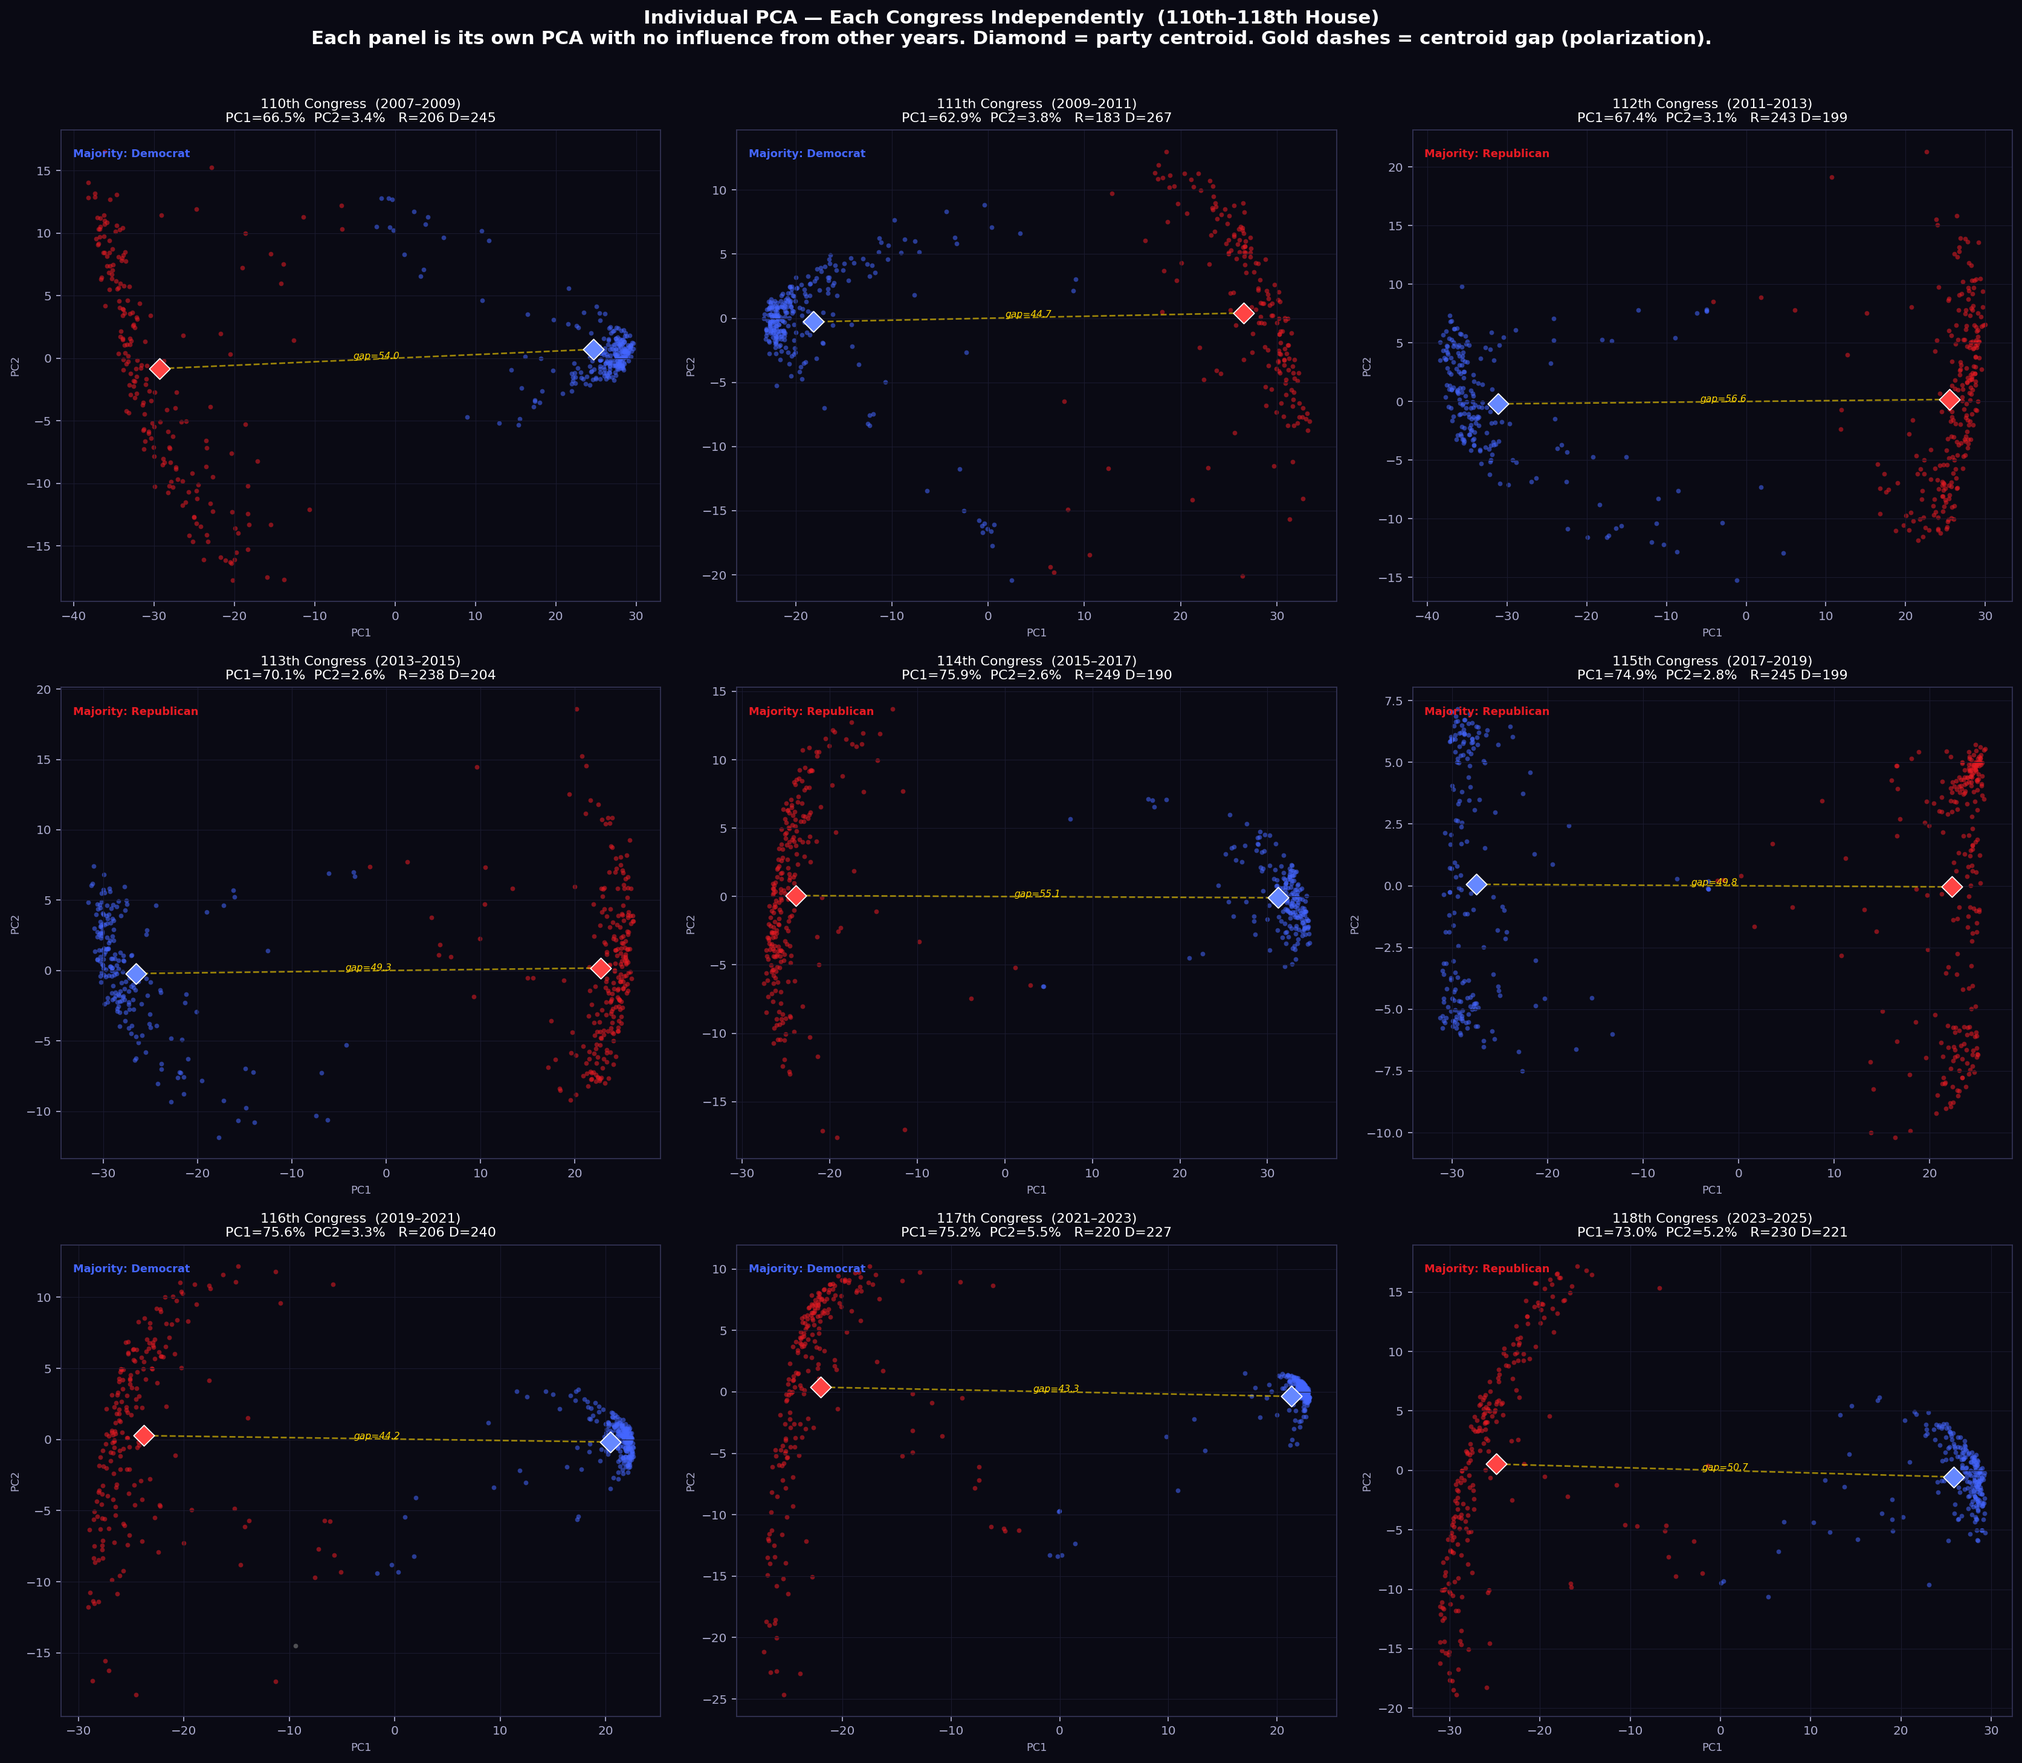
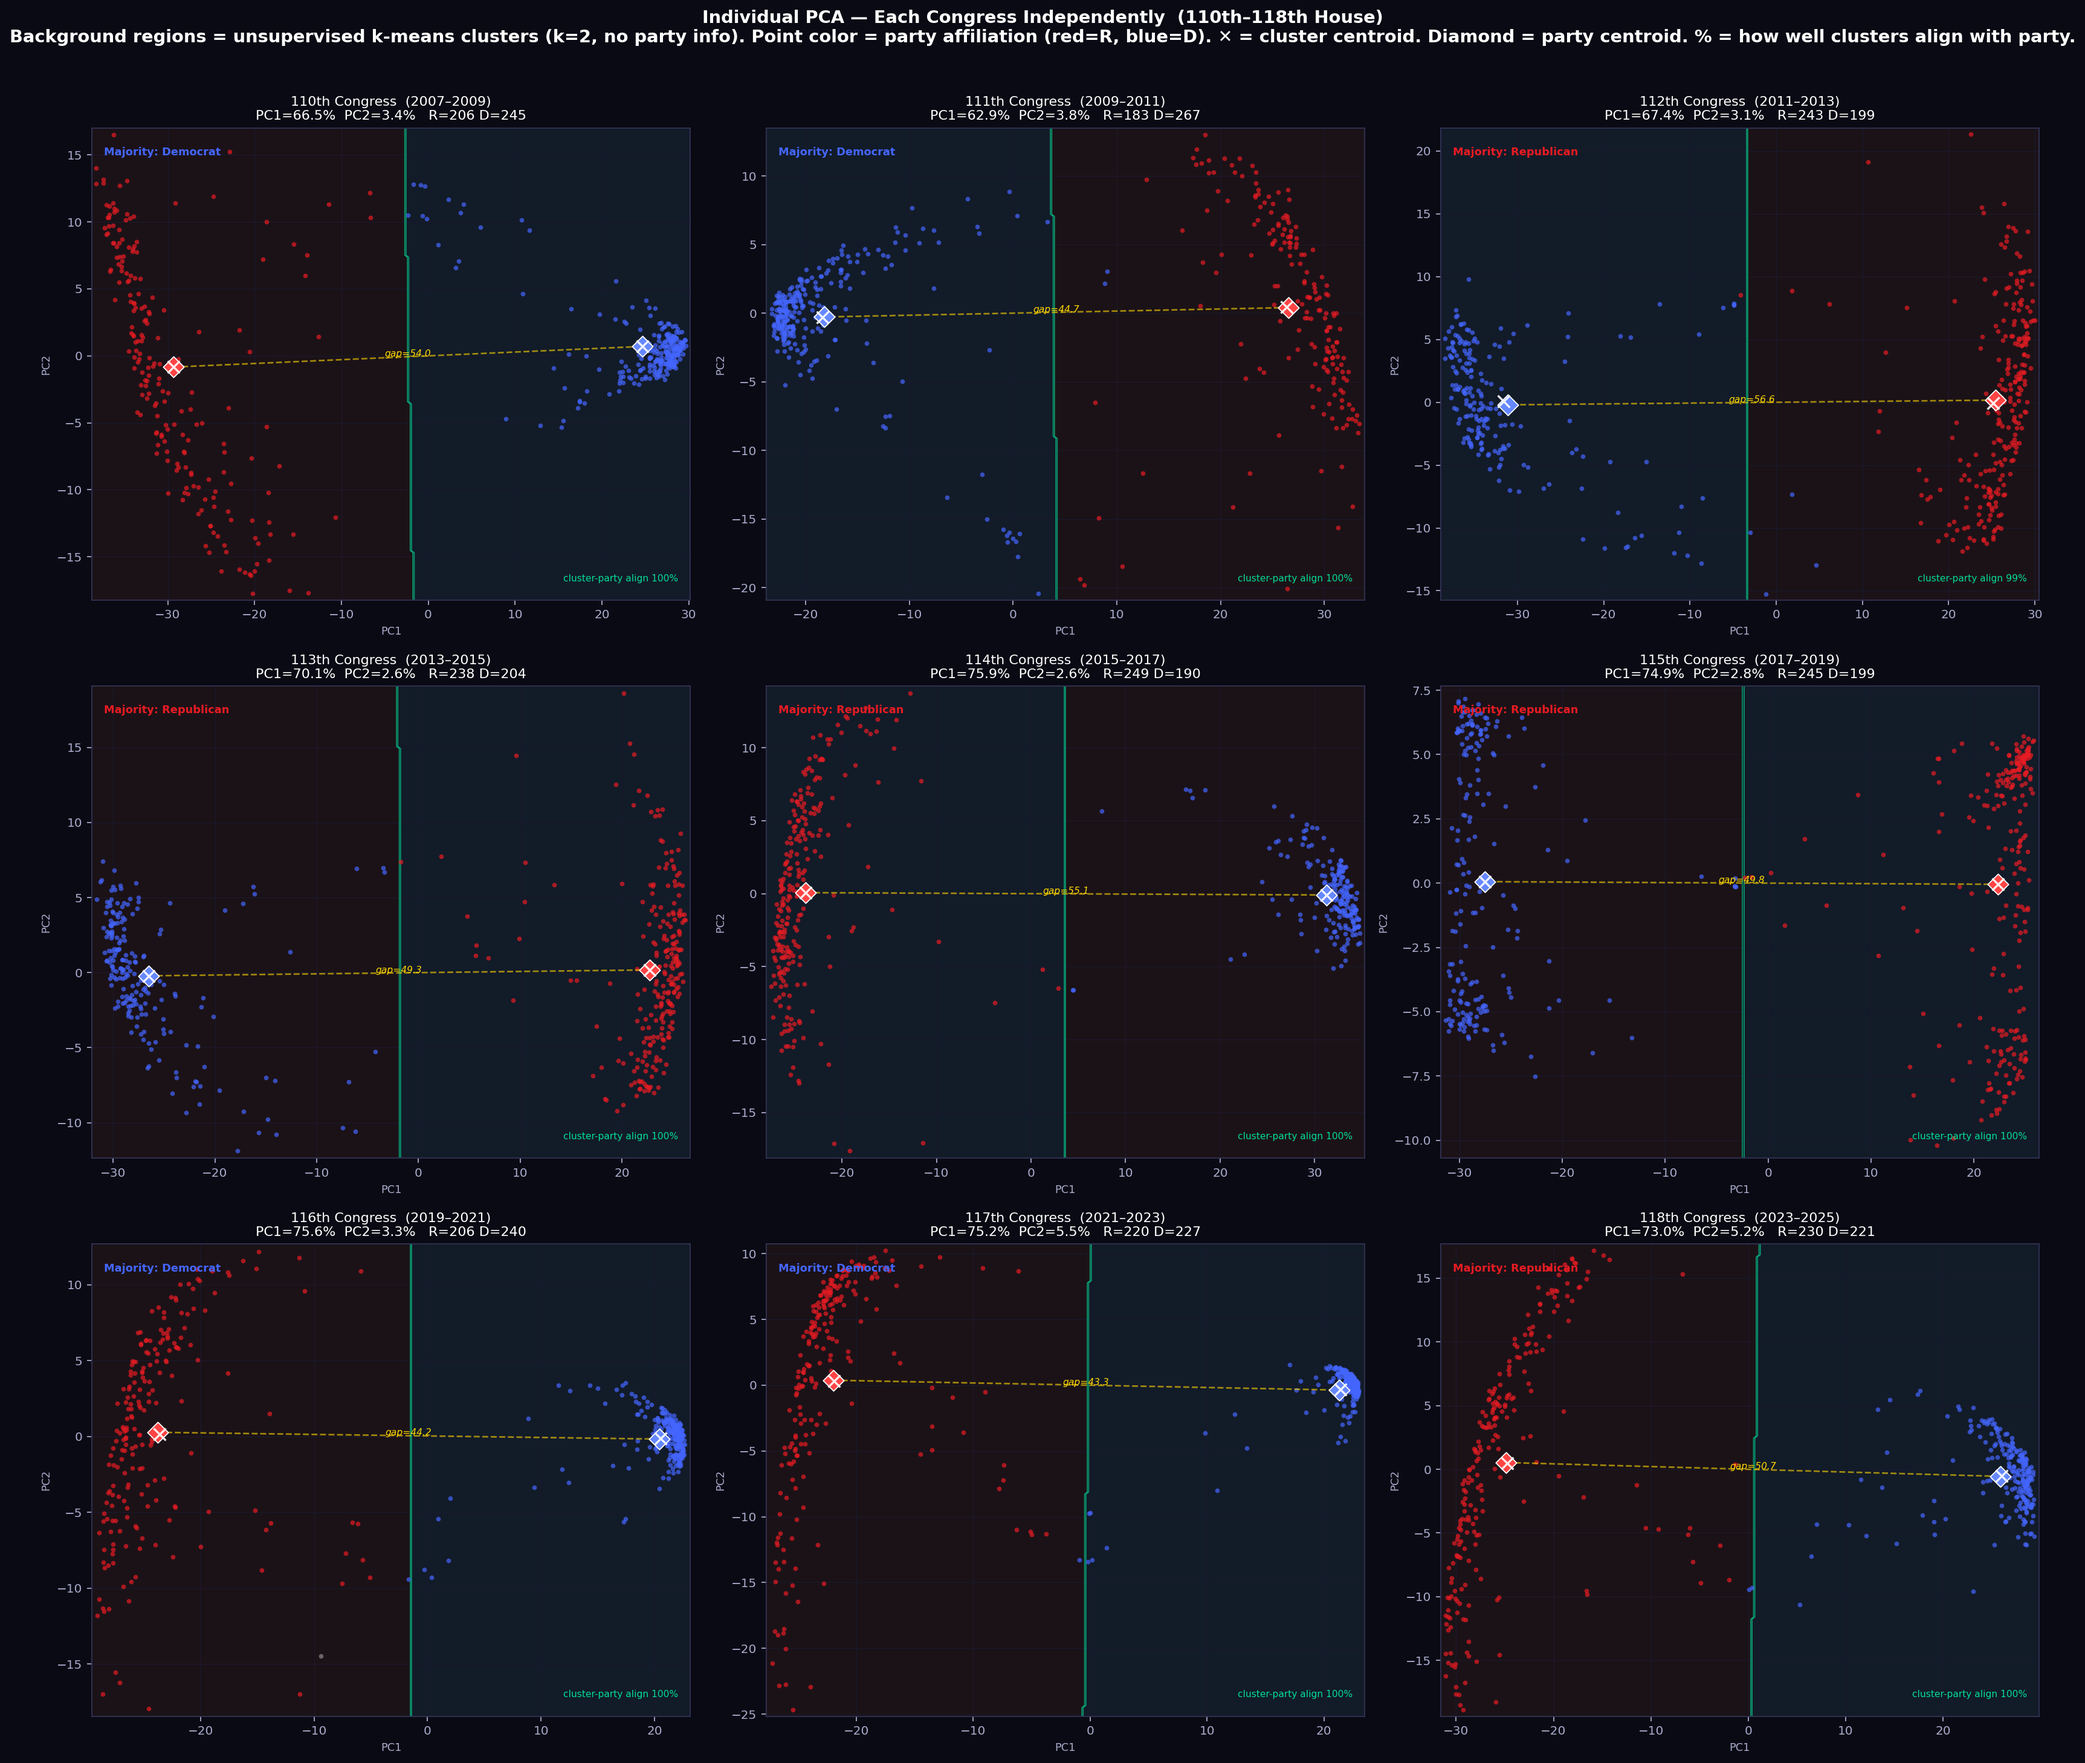
Per-congress PCA: unsupervised k-means regions, party-colored points
- Run k-means (k=2) on PCA coords with zero party information
- Background shading shows the two unsupervised clusters; teal boundary
  marks the decision boundary found by the algorithm alone
- Scatter points still colored by party affiliation (red=R, blue=D)
- Alignment % annotation shows how closely the blind clusters match party
- White ✕ marks algorithm's cluster centroids; diamond marks party centroids

diff --git a/src/voting_pca.py b/src/voting_pca.py
@@ -2064,13 +2064,39 @@ def plot_per_congress_pca(
         pc1 = coords_aligned[:, 0]
         pc2 = coords_aligned[:, 1]
 
-        # Scatter by party
+        # ── Unsupervised k-means clustering (k=2, NO party info used) ─────────
+        km = KMeans(n_clusters=2, n_init=20, random_state=42)
+        cluster_ids = km.fit_predict(coords_aligned)
+
+        # Background mesh coloring for cluster regions
+        x_min, x_max = pc1.min() - 0.5, pc1.max() + 0.5
+        y_min, y_max = pc2.min() - 0.5, pc2.max() + 0.5
+        xx, yy = np.meshgrid(
+            np.linspace(x_min, x_max, 220),
+            np.linspace(y_min, y_max, 220),
+        )
+        Z = km.predict(np.c_[xx.ravel(), yy.ravel()]).reshape(xx.shape)
+        # Neutral cluster region colors — amber vs teal, low alpha
+        region_colors = np.where(Z == 0, 0.0, 1.0)
+        ax.contourf(xx, yy, region_colors, levels=1,
+                    colors=["#1a2a3a", "#2a1a1a"], alpha=0.55, zorder=1)
+        ax.contour(xx, yy, region_colors, levels=1,
+                   colors=["#00ffaa"], linewidths=0.7, alpha=0.6, zorder=2)
+
+        # K-means centroids (white X)
+        for cid, cx_c in enumerate(km.cluster_centers_):
+            ax.scatter([cx_c[0]], [cx_c[1]], c="white", s=80, marker="x",
+                       linewidths=1.5, zorder=7, alpha=0.9)
+
+        # ── Scatter points colored by PARTY (not cluster) ─────────────────────
         for party, color in [("Republican","#E81B23"), ("Democrat","#4466ff"), ("Other","#888888")]:
             mask = parties == party
             if mask.sum() == 0: continue
-            ax.scatter(pc1[mask], pc2[mask], c=color, s=12, alpha=0.55, linewidths=0)
+            ax.scatter(pc1[mask], pc2[mask], c=color, s=12, alpha=0.70,
+                       linewidths=0, zorder=3)
 
-        # Centroid markers
+        # Party centroid diamonds
+        rx = ry = dx = dy = None
         if (parties == "Republican").sum() > 0:
             rx, ry = pc1[parties=="Republican"].mean(), pc2[parties=="Republican"].mean()
             ax.scatter([rx], [ry], c="#ff4444", s=120, marker="D", zorder=6,
@@ -2082,13 +2108,26 @@ def plot_per_congress_pca(
                        edgecolors="white", linewidths=0.8)
             d_centroids.append((dx, dy))
 
-        # Centroid gap annotation
-        if (parties=="Republican").sum()>0 and (parties=="Democrat").sum()>0:
+        # Party centroid gap annotation
+        if rx is not None and dx is not None:
             gap = np.sqrt((rx-dx)**2 + (ry-dy)**2)
             ax.plot([rx, dx], [ry, dy], color="#FFD700", lw=1.2, ls="--", alpha=0.6, zorder=5)
             mid_x, mid_y = (rx+dx)/2, (ry+dy)/2
             ax.text(mid_x, mid_y, f"gap={gap:.1f}", ha="center", color="#FFD700",
                     fontsize=7, style="italic")
+
+        # Alignment stat: what fraction of the majority party ended up in one cluster?
+        if len(np.unique(parties)) > 1:
+            # find which cluster is more Republican
+            r_mask = parties == "Republican"
+            if r_mask.sum() > 0:
+                r_cluster = np.bincount(cluster_ids[r_mask]).argmax()
+                r_in_r = (cluster_ids[r_mask] == r_cluster).mean() * 100
+                d_in_d = (cluster_ids[parties=="Democrat"] != r_cluster).mean() * 100 if (parties=="Democrat").sum() > 0 else 0
+                align = (r_in_r + d_in_d) / 2
+                ax.text(0.98, 0.04, f"cluster-party align {align:.0f}%",
+                        transform=ax.transAxes, ha="right", color="#00ffaa",
+                        fontsize=7, alpha=0.85)
 
         yr    = CONGRESS_YEARS[c]
         maj   = MAJORITY_PARTY[c]
@@ -2110,9 +2149,10 @@ def plot_per_congress_pca(
 
     fig.suptitle(
         "Individual PCA — Each Congress Independently  (110th–118th House)\n"
-        "Each panel is its own PCA with no influence from other years. "
-        "Diamond = party centroid. Gold dashes = centroid gap (polarization).",
-        color="white", fontsize=14, y=1.01, fontweight="bold"
+        "Background regions = unsupervised k-means clusters (k=2, no party info). "
+        "Point color = party affiliation (red=R, blue=D). ✕ = cluster centroid. "
+        "Diamond = party centroid. % = how well clusters align with party.",
+        color="white", fontsize=13, y=1.01, fontweight="bold"
     )
     plt.tight_layout()
     out = save_path or (OUT_DIR / "per_congress_pca.png")
